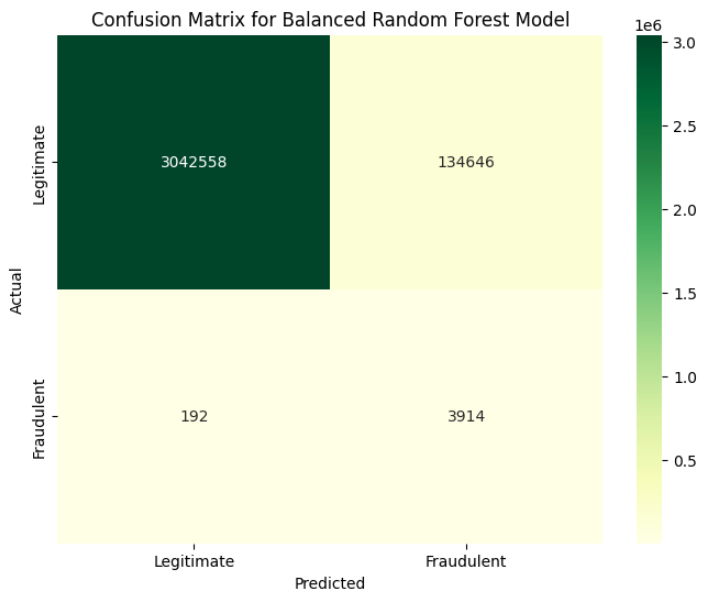
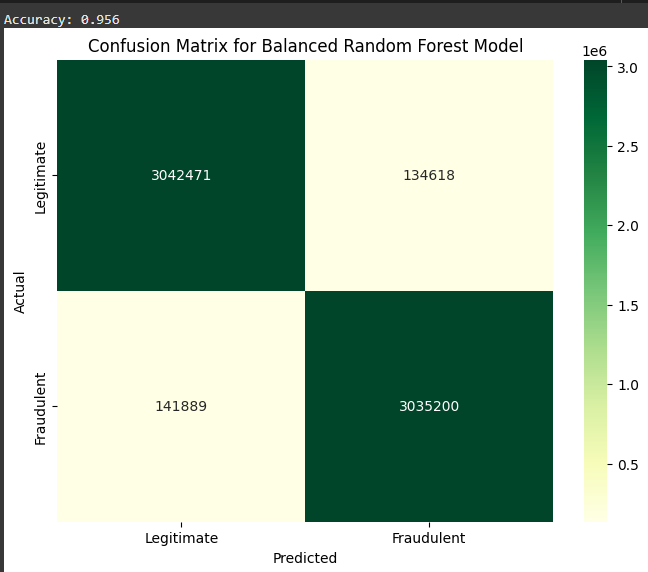
update v3 resampled

diff --git a/V3-BalancedRandomForest/v3_balancedrandomforest.py b/V3-BalancedRandomForest/v3_balancedrandomforest.py
@@ -8,6 +8,10 @@ from sklearn.model_selection import train_test_split
 from imblearn.combine import SMOTETomek
 from imblearn.ensemble import BalancedRandomForestClassifier
 from sklearn.tree import plot_tree
+import warnings
+
+# Suppress warnings
+warnings.filterwarnings("ignore")
 
 data = pd.read_csv('onlinefraud.csv')
 data = data.drop(columns=['nameOrig', 'nameDest', 'isFlaggedFraud'])
@@ -21,9 +25,10 @@ y = data['isFraud']
 X_train, X_test, y_train, y_test = train_test_split(X, y, test_size=0.5, stratify=y, random_state=0)
 
 smote_tomek = SMOTETomek(random_state=0)
-X_resampled, y_resampled = smote_tomek.fit_resample(X_train, y_train)
+X_train_resampled, y_train_resampled = smote_tomek.fit_resample(X_train, y_train)
+X_test_resampled, y_test_resampled = smote_tomek.fit_resample(X_test, y_test)
 
-# Train the Balanced Random Forest model with hyperparameters
+# BRF model with hyperparameters
 brf_model = BalancedRandomForestClassifier(
     n_estimators=50,
     max_depth=4,
@@ -32,16 +37,15 @@ brf_model = BalancedRandomForestClassifier(
     max_features='sqrt',
     random_state=0
 )
-brf_model.fit(X_resampled, y_resampled)
+brf_model.fit(X_train_resampled, y_train_resampled)
 
-y_pred = brf_model.predict(X_test)
+y_pred = brf_model.predict(X_test_resampled)
 
-accuracy = accuracy_score(y_test, y_pred)
+accuracy = accuracy_score(y_test_resampled, y_pred)
 print(f"Accuracy: {accuracy:.3f}")
-print(classification_report(y_test, y_pred))
 
 # Confusion matrix
-conf_matrix = confusion_matrix(y_test, y_pred)
+conf_matrix = confusion_matrix(y_test_resampled, y_pred)
 plt.figure(figsize=(8, 6))
 sns.heatmap(conf_matrix, annot=True, fmt='d', cmap='YlGn',
             xticklabels=['Legitimate', 'Fraudulent'],
